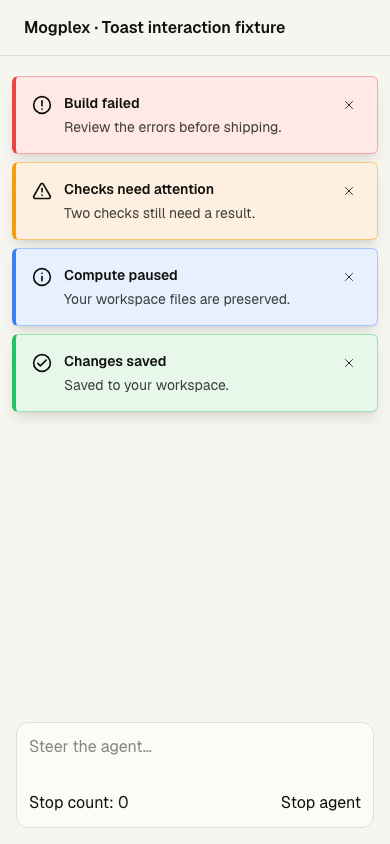
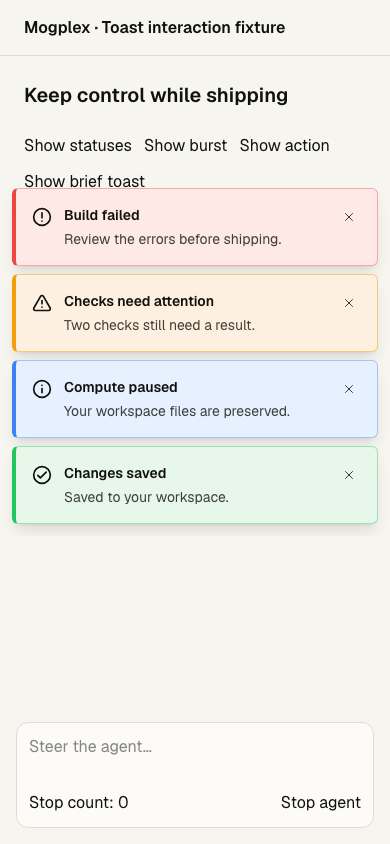
fix(ui): keep toast cards clear of workspace controls

Changed region(s): [[0.0308, 0.0924, 0.9846, 0.6469], [0.9538, 0.2156, 0.9846, 0.2464]]

diff --git a/tests/e2e/status-toasts.spec.ts b/tests/e2e/status-toasts.spec.ts
@@ -200,6 +200,29 @@ test("notifications keep steering and stop controls available and can be dismiss
   await expect(page.getByTestId("stop-count")).toHaveText("2");
 });
 
+test("short screens keep the toast stack clear of toolbars and the composer", async ({
+  page,
+}) => {
+  await page.setViewportSize({ width: 390, height: 600 });
+  await loadStatusToastFixture(page, "dark");
+  await page.getByRole("button", { name: "Show burst", exact: true }).click();
+  await expect(page.locator("[data-variant]")).toHaveCount(12);
+  const viewport = page.locator('[data-slot="toast-viewport"]');
+  const stack = await viewport.boundingBox();
+  const composer = page.getByRole("textbox", { name: "Steer agent" });
+  const input = await composer.boundingBox();
+  expect(stack!.y).toBeGreaterThanOrEqual(176);
+  expect(stack!.y + stack!.height).toBeLessThan(input!.y);
+  expect(
+    await viewport.evaluate(
+      (element) => element.scrollHeight > element.clientHeight
+    )
+  ).toBe(true);
+  await composer.fill("Keep this easy to steer.");
+  await page.getByRole("button", { name: "Stop agent", exact: true }).click();
+  await expect(page.getByTestId("stop-count")).toHaveText("1");
+});
+
 test("toast actions and keyboard dismissal work on mobile with reduced motion", async ({
   page,
 }, testInfo) => {

diff --git a/tests/e2e/control-sidebar-archive-races.spec.ts b/tests/e2e/control-sidebar-archive-races.spec.ts
@@ -199,6 +199,20 @@ test("Undo waits for another archive instead of discarding the restore", async (
       page.getByText("1 chat archived", { exact: true })
     ).toBeVisible();
     await sidebar.getByRole("button", { name: /^Fix 6 / }).click();
+    // A visible Undo must not cover the menu needed for the next action.
+    expect(
+      await page
+        .getByRole("button", { name: "More options" })
+        .evaluate((button) => {
+          const bounds = button.getBoundingClientRect();
+          return button.contains(
+            document.elementFromPoint(
+              bounds.x + bounds.width / 2,
+              bounds.y + bounds.height / 2
+            )
+          );
+        })
+    ).toBe(true);
     await archiveSelected(page);
     await archiving.promise;
     await page.getByRole("button", { name: "Undo", exact: true }).click();

diff --git a/components/ui/toast.tsx b/components/ui/toast.tsx
@@ -23,7 +23,9 @@ const ToastViewport = React.forwardRef<
     ref={ref}
     data-slot="toast-viewport"
     className={cn(
-      'pointer-events-none fixed inset-x-0 top-[calc(env(safe-area-inset-top)+4rem)] z-[100] flex max-h-[50dvh] w-full flex-col gap-2 overflow-y-auto overscroll-y-contain p-3 sm:left-auto sm:right-3 sm:w-[390px] sm:p-0',
+      // Clear the app header, workspace actions, and task toolbar. Reserve the
+      // bottom composer as well when a short viewport needs a smaller stack.
+      'pointer-events-none fixed inset-x-0 top-[calc(env(safe-area-inset-top)+11rem)] z-[100] flex max-h-[min(50dvh,calc(100dvh-22rem))] w-full flex-col gap-2 overflow-y-auto overscroll-y-contain p-3 sm:left-auto sm:right-3 sm:w-[390px] sm:p-0',
       className,
     )}
     {...props}

diff --git a/tests/e2e/flows-fallback-model.spec.ts b/tests/e2e/flows-fallback-model.spec.ts
@@ -212,6 +212,18 @@ test("flows inspector saves a fallback and restores inherited model defaults", a
     .click();
   await expect(modelSelect).toHaveAttribute("data-value", "");
   await expect(page.getByTestId("flows-missing-model-warning")).toHaveCount(0);
+  // Save feedback must leave the inspector close control immediately usable.
+  expect(
+    await page.getByTestId("flows-inspector-close").evaluate((button) => {
+      const bounds = button.getBoundingClientRect();
+      return button.contains(
+        document.elementFromPoint(
+          bounds.x + bounds.width / 2,
+          bounds.y + bounds.height / 2
+        )
+      );
+    })
+  ).toBe(true);
   await page.getByTestId("flows-inspector-close").click();
   const saved = page.waitForResponse(
     (response) =>

diff --git a/DESIGN.md b/DESIGN.md
@@ -119,8 +119,9 @@ accessible indicator. Confirm text and focus contrast in both themes.
 something that needs attention, and `toast.error()` (variant `destructive`) for
 failed actions. Each variant tints the surface, adds an accent bar, and
 shows a distinct, high-contrast icon with a screen-reader label.
-Notifications stay above the conversation controls, never take focus when
-they appear, and keep a visible dismiss button. Bursts preserve every message
+Notifications sit below the app and workspace toolbars, with room reserved for
+the conversation controls on short screens. They never take focus when they
+appear and keep a visible dismiss button. Bursts preserve every message
 in a scrollable stack. Respect reduced motion, and let users pause expiry by
 hovering or focusing a notification. Routine updates, including warnings, use
 polite screen-reader announcements; failures interrupt by default. Override
